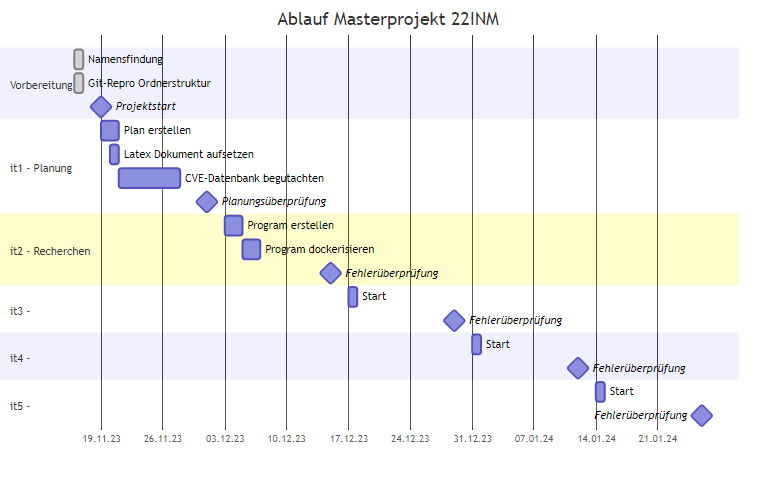
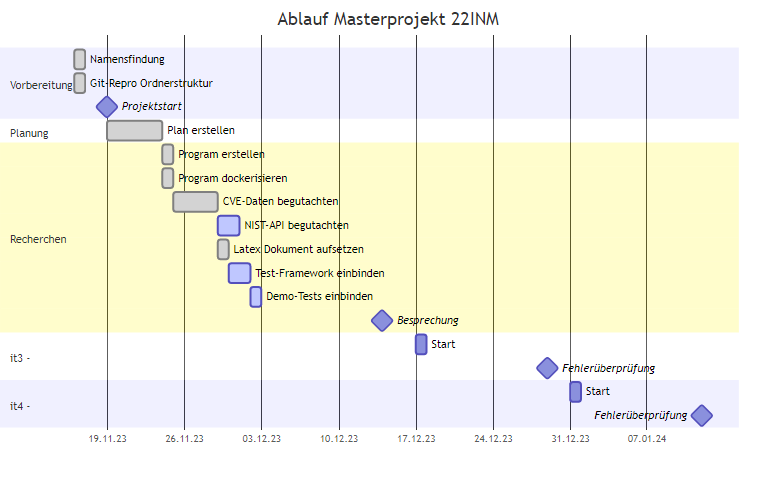
First proposal for the revision of the Gantt chart

diff --git a/documentation/planning/procedure.md b/documentation/planning/procedure.md
@@ -9,20 +9,27 @@ gantt
     Namensfindung: done, V-1, 2023-11-16, 1d
     Git-Repro Ordnerstruktur: done, V-2, 2023-11-16, 1d
 
-    Projektstart: milestone, 2023-11-19, 0d
+    Projektstart: done, milestone, 2023-11-19, 0d
 
-    section it1 - Planung
-    Plan erstellen: it1-1, 2023-11-19, 2d
-    Latex Dokument aufsetzen: it1-2, 2023-11-20, 1d
-    CVE-Datenbank begutachten: it1-3, after it1-2, 7d
+    section Planung
+    Plan erstellen: done, planerstellen, 2023-11-19, 5d
 
-    Planungsüberprüfung: milestone, 2023-12-01, 0d
+    GoldenCircle-Schreiben V1: done, goldencircleschreiben, after planerstellen, 5d
 
-    section it2 - Recherchen
-    Program erstellen: it2-1, 2023-12-03, 2d
-    Program dockerisieren: it2-3, after it2-1, 2d
+    section Recherchen
 
-    Fehlerüberprüfung: milestone, 2023-12-15, 0d
+    Program erstellen: done, programmerstellen, after goldencircleschreiben, 1d
+    Program dockerisieren: done, programmdockerisieren, after goldencircleschreiben, 1d
+
+    CVE-Daten begutachten: done, cvedatenbegutachten, after programmdockerisieren, 4d
+    NIST-API begutachten: active, nistapibegutachten, after cvedatenbegutachten, 2d
+
+    Latex Dokument aufsetzen: done, latexdokumentaufsetzen, after cvedatenbegutachten, 1d
+
+    Test-Framework einbinden: active, testframeworkeinbinden, after latexdokumentaufsetzen, 2d
+    Demo-Tests einbinden: active, demotestseinbinden, after testframeworkeinbinden, 1d
+
+    Besprechung: milestone, 2023-12-14, 0d
 
     section it3 - 
     Start: it3-1, 2023-12-17, 1d
@@ -34,10 +41,6 @@ gantt
 
     Fehlerüberprüfung: milestone, 2024-01-12, 0d
 
-    section it5 - 
-    Start: it5-1, 2024-01-14, 1d
-
-    Fehlerüberprüfung: milestone, 2024-01-26, 0d
 ```
 
 ```mermaid
@@ -46,6 +49,11 @@ gantt
     axisFormat  %d.%m.%y
     title       Ablauf Masterprojekt 22INM
     todayMarker off
+
+    section it5 - 
+    Start: it5-1, 2024-01-14, 1d
+
+    Fehlerüberprüfung: milestone, 2024-01-26, 0d
 
     section it6 - 
     Start: it6-1, 2024-01-28, 1d
@@ -58,17 +66,6 @@ gantt
     Fehlerüberprüfung: milestone, 2024-02-23, 0d
 
     section it8 - 
-    Start: it7-1, 2024-02-25, 1d
 
-    Fehlerüberprüfung: milestone, 2024-03-08, 0d
-
-    section it9 - 
-    Start: it7-1, 2024-03-10, 1d
-
-    Fehlerüberprüfung: milestone, 2024-03-22, 0d
-
-    section it10 - 
-    Start: it7-1, 2024-03-24, 1d
-
-    Abgabe: milestone, 2024-04-05, 0d
+    Abgabe: milestone, 2024-03-11, 0d
 ```
